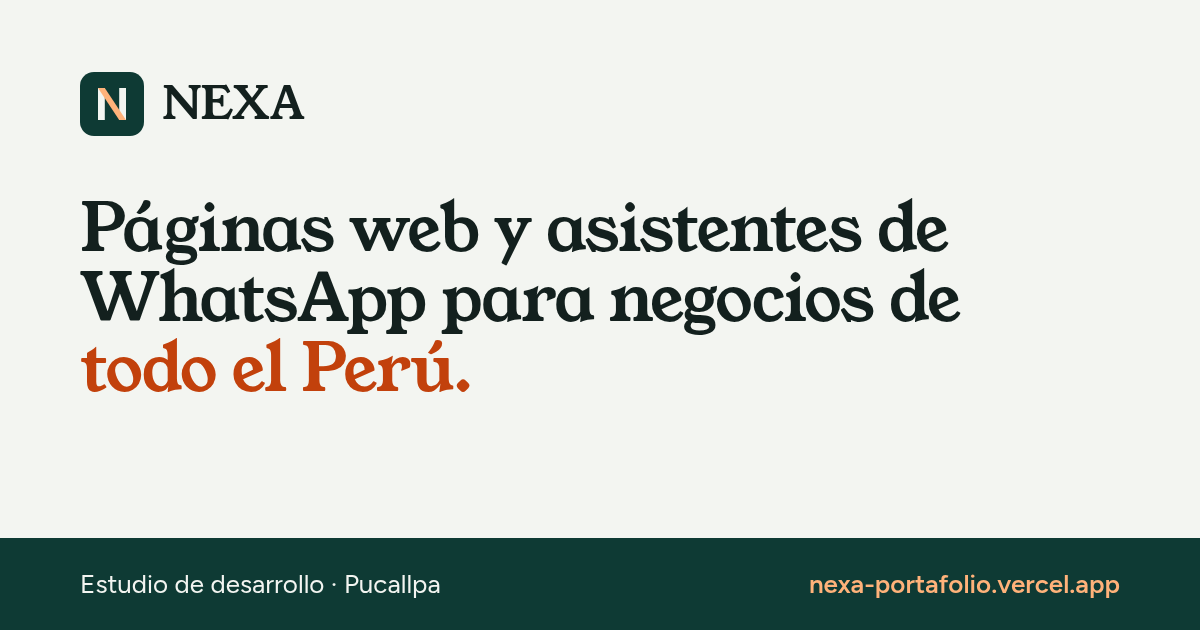
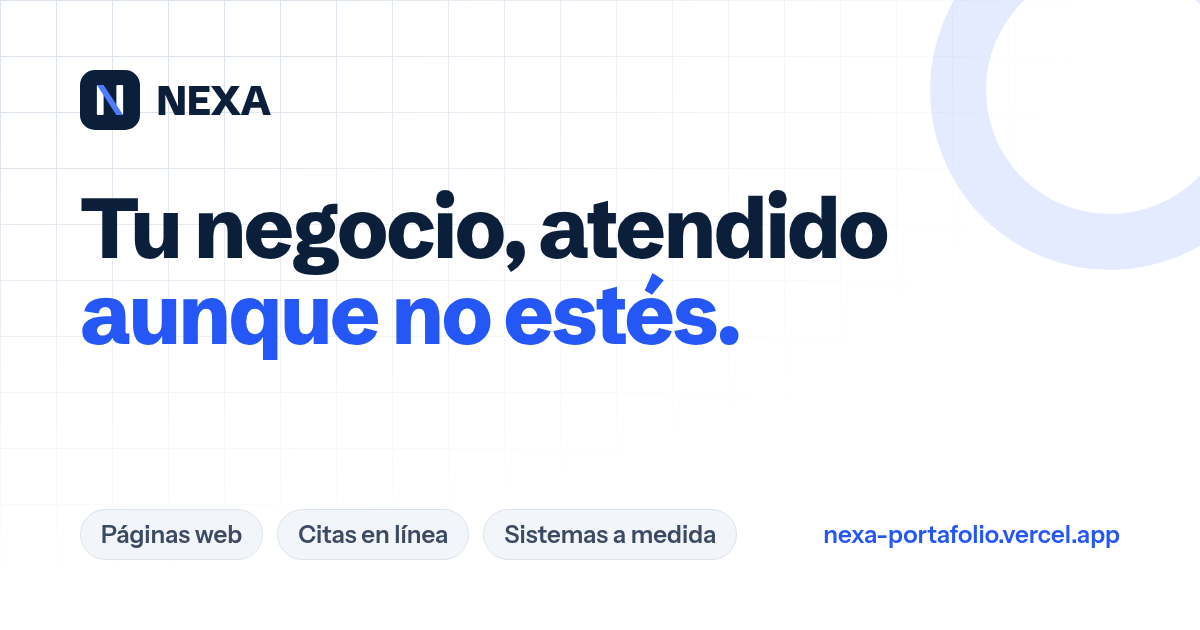
feat(marca): nueva identidad azul de NEXA
- Paleta tinta, marino, papel, niebla, azul y cielo
- Schibsted Grotesk para títulos e Instrument Sans para el texto
- Isotipo N con diagonal azul, ícono, ícono de Apple e imagen para compartir

Changed region(s): [[0.0, 0.8143, 1.0, 1.0], [0.0617, 0.3016, 0.8017, 0.6333], [0.0617, 0.0905, 0.2467, 0.2413]]

diff --git a/app/globals.css b/app/globals.css
@@ -2,21 +2,22 @@
 
 /*
  * Marca NEXA
- * tinta   — texto y superficies oscuras
- * selva   — verde profundo de la marca (Ucayali)
- * papel   — fondo general
- * arcilla — acento para acciones principales
- * mango   — acento sobre fondos oscuros
+ * tinta      — texto principal (azul marino casi negro)
+ * marino     — superficies oscuras de la marca
+ * papel      — fondo general (blanco)
+ * niebla     — fondo alterno y superficies suaves
+ * azul       — acciones principales y acentos
+ * cielo      — acento sobre fondos oscuros
  */
 @theme {
-  --color-tinta: #13201e;
-  --color-selva: #0e3a34;
-  --color-selva-claro: #1d5a50;
-  --color-papel: #f3f5f1;
-  --color-papel-hondo: #e7ebe4;
-  --color-arcilla: #c2410c;
-  --color-arcilla-hondo: #9a3412;
-  --color-mango: #ffb27a;
+  --color-tinta: #0b1f3a;
+  --color-marino: #0a1a33;
+  --color-papel: #ffffff;
+  --color-niebla: #f2f5fa;
+  --color-linea: #dde3ec;
+  --color-azul: #2457f5;
+  --color-azul-hondo: #1a41c9;
+  --color-cielo: #9dbbff;
   --color-whatsapp: #1f9d55;
 
   --ease-suave: cubic-bezier(0.22, 1, 0.36, 1);
@@ -24,8 +25,8 @@
 
 /* Las variables de fuente se definen en el layout de (sitio), por eso van "inline". */
 @theme inline {
-  --font-sans: var(--font-figtree), system-ui, sans-serif;
-  --font-serif: var(--font-young-serif), Georgia, "Times New Roman", serif;
+  --font-sans: var(--font-instrument), system-ui, sans-serif;
+  --font-display: var(--font-schibsted), system-ui, sans-serif;
 }
 
 html {
@@ -38,17 +39,17 @@ body {
 }
 
 :where(a, button, summary):focus-visible {
-  outline: 2px solid var(--color-arcilla);
+  outline: 2px solid var(--color-azul);
   outline-offset: 3px;
   border-radius: 6px;
 }
 
 .sobre-oscuro :where(a, button, summary):focus-visible {
-  outline-color: var(--color-mango);
+  outline-color: var(--color-cielo);
 }
 
 ::selection {
-  background: var(--color-arcilla);
+  background: var(--color-azul);
   color: #fff;
 }
 
@@ -86,5 +87,13 @@ body {
 @media (prefers-reduced-motion: reduce) {
   html {
     scroll-behavior: auto;
+  }
+}
+
+/* Títulos de la marca: peso y espaciado por defecto (las utilidades de Tailwind lo pueden cambiar). */
+@layer base {
+  .font-display {
+    font-weight: 700;
+    letter-spacing: -0.025em;
   }
 }

diff --git a/app/_components/Logo.tsx b/app/_components/Logo.tsx
@@ -2,30 +2,30 @@ type Props = {
   className?: string;
   /** Muestra solo el isotipo, sin la palabra NEXA. */
   soloMarca?: boolean;
+  /** Variante para fondos oscuros: el cuadrado pasa a azul para no perderse. */
+  sobreOscuro?: boolean;
 };
 
 /**
- * Isotipo de NEXA: una N cuyo trazo diagonal va en color mango,
- * como un río que cruza la letra. Funciona igual a 16 px que en grande.
+ * Isotipo de NEXA: una N de astas blancas cuya diagonal va en azul,
+ * como una conexión entre dos puntos. Funciona igual a 16 px que en grande.
  */
-export function Marca({ className = "h-8 w-8" }: { className?: string }) {
+export function Marca({ className = "h-8 w-8", sobreOscuro = false }: { className?: string; sobreOscuro?: boolean }) {
   return (
     <svg viewBox="0 0 32 32" className={className} aria-hidden="true">
-      <rect width="32" height="32" rx="7" fill="#0e3a34" />
-      <rect x="9" y="8" width="3.4" height="16" fill="#f3f5f1" />
-      <rect x="19.6" y="8" width="3.4" height="16" fill="#f3f5f1" />
-      <path d="M9 8h3.4L23 24h-3.4Z" fill="#ffb27a" />
+      <rect width="32" height="32" rx="8" fill={sobreOscuro ? "#2457f5" : "#0b1f3a"} />
+      <rect x="9" y="8" width="3.6" height="16" rx="0.6" fill="#ffffff" />
+      <rect x="19.4" y="8" width="3.6" height="16" rx="0.6" fill="#ffffff" />
+      <path d="M9 8h3.6L23 24h-3.6Z" fill={sobreOscuro ? "#0b1f3a" : "#4d7cff"} />
     </svg>
   );
 }
 
-export function Logo({ className = "", soloMarca = false }: Props) {
+export function Logo({ className = "", soloMarca = false, sobreOscuro = false }: Props) {
   return (
     <span className={`inline-flex items-center gap-2.5 ${className}`}>
-      <Marca className="h-8 w-8 shrink-0" />
-      {!soloMarca && (
-        <span className="font-serif text-[1.45rem] leading-none tracking-tight">NEXA</span>
-      )}
+      <Marca className="h-8 w-8 shrink-0" sobreOscuro={sobreOscuro} />
+      {!soloMarca && <span className="font-display text-[1.35rem] font-extrabold leading-none tracking-tight">NEXA</span>}
     </span>
   );
 }

diff --git a/app/(sitio)/fuentes.ts b/app/(sitio)/fuentes.ts
@@ -1,16 +1,15 @@
-import { Figtree, Young_Serif } from "next/font/google";
+import { Instrument_Sans, Schibsted_Grotesk } from "next/font/google";
 
 // Fuentes de la marca NEXA. Se cargan en el layout de (sitio) y no en el raíz,
 // así los demos no descargan fuentes que no usan.
-export const youngSerif = Young_Serif({
+export const schibsted = Schibsted_Grotesk({
   subsets: ["latin"],
-  weight: "400",
   display: "swap",
-  variable: "--font-young-serif",
+  variable: "--font-schibsted",
 });
 
-export const figtree = Figtree({
+export const instrument = Instrument_Sans({
   subsets: ["latin"],
   display: "swap",
-  variable: "--font-figtree",
+  variable: "--font-instrument",
 });

diff --git a/app/_components/Marcos.tsx b/app/_components/Marcos.tsx
@@ -19,7 +19,7 @@ export function MarcoNavegador({ src, alt, sizes, ruta = "", prioridad = false, 
     <figure
       className={`overflow-hidden rounded-xl border border-tinta/15 bg-white shadow-[0_24px_60px_-30px_rgb(19_32_30/0.45)] ${className}`}
     >
-      <div className="flex items-center gap-3 border-b border-tinta/10 bg-papel-hondo px-3 py-2">
+      <div className="flex items-center gap-3 border-b border-tinta/10 bg-niebla px-3 py-2">
         <span className="flex gap-1.5" aria-hidden="true">
           <span className="h-2 w-2 rounded-full bg-tinta/20" />
           <span className="h-2 w-2 rounded-full bg-tinta/20" />

diff --git a/app/_components/Iconos.tsx b/app/_components/Iconos.tsx
@@ -8,7 +8,7 @@ export function IconoWhatsApp({ tam = 22, className }: Props) {
   );
 }
 
-export function Check({ className = "text-arcilla" }: { className?: string }) {
+export function Check({ className = "text-azul" }: { className?: string }) {
   return (
     <svg xmlns="http://www.w3.org/2000/svg" width="18" height="18" viewBox="0 0 24 24" fill="none" stroke="currentColor" strokeWidth="2.5" strokeLinecap="round" strokeLinejoin="round" className={`mt-0.5 shrink-0 ${className}`} aria-hidden="true">
       <polyline points="20 6 9 17 4 12" />

diff --git a/app/_components/Puntaje.tsx b/app/_components/Puntaje.tsx
@@ -27,7 +27,7 @@ export function Puntaje({ valor, etiqueta, tam = 76, oscuro = false }: Props) {
             strokeDasharray={`${valor} 100`}
           />
         </svg>
-        <span className="absolute inset-0 grid place-items-center font-serif text-[1.35rem] tabular-nums" style={{ color: colorDe(valor) }}>
+        <span className="absolute inset-0 grid place-items-center font-display text-[1.35rem] tabular-nums" style={{ color: colorDe(valor) }}>
           {valor}
         </span>
       </div>

diff --git a/app/(sitio)/layout.tsx b/app/(sitio)/layout.tsx
@@ -1,5 +1,5 @@
-import { figtree, youngSerif } from "./fuentes";
+import { instrument, schibsted } from "./fuentes";
 
 export default function SitioLayout({ children }: LayoutProps<"/">) {
-  return <div className={`${youngSerif.variable} ${figtree.variable} flex min-h-full flex-1 flex-col font-sans`}>{children}</div>;
+  return <div className={`${schibsted.variable} ${instrument.variable} flex min-h-full flex-1 flex-col font-sans`}>{children}</div>;
 }

diff --git a/app/layout.tsx b/app/layout.tsx
@@ -26,7 +26,7 @@ export const metadata: Metadata = {
 };
 
 export const viewport: Viewport = {
-  themeColor: "#0e3a34",
+  themeColor: "#0b1f3a",
 };
 
 export default function RootLayout({ children }: LayoutProps<"/">) {
